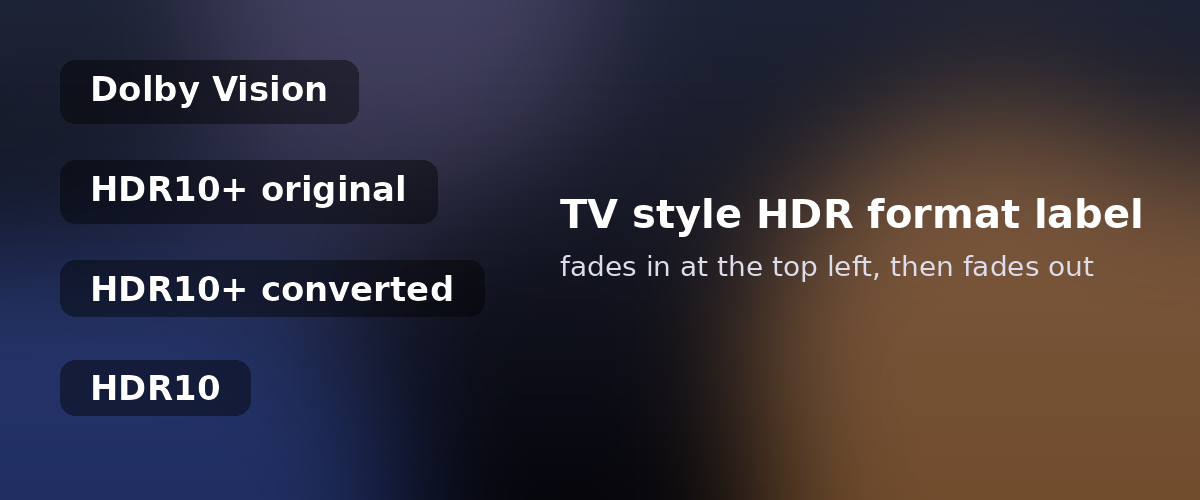
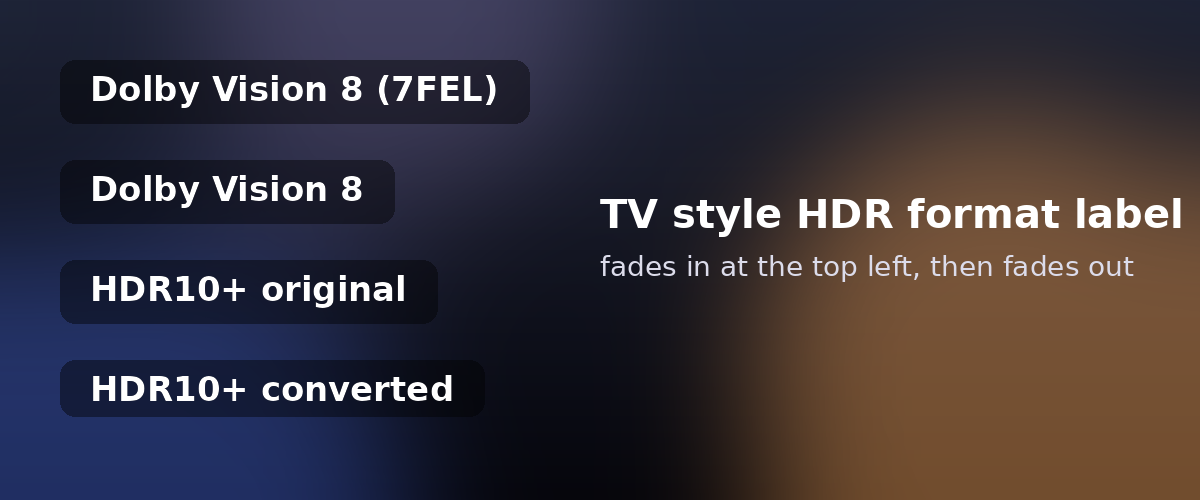
HDR badge: show the Dolby Vision profile, stay longer
- "Dolby Vision 8" (or the native profile, e.g. "Dolby Vision 5") for
  Dolby Vision played as is, "Dolby Vision 8 (7MEL)" / "Dolby Vision 8
  (7FEL)" for profile 7 converted to 8.1.
- The badge stays visible about 5 seconds before fading out (was 2.5).
- README, website text and label illustration updated.

Claude-Session: https://claude.ai/code/session_01HcRXfN5pcUoVJiSHQLWXUD

diff --git a/docs/index.html b/docs/index.html
@@ -83,14 +83,14 @@
     <div class="card"><h3>Profile 7 → 8.1 on the fly</h3><p>The enhancement layer is dropped and every Dolby Vision RPU is rewritten as profile 8.1, like dovi_tool does – during playback, with negligible CPU usage. MEL is lossless.</p></div>
     <div class="card"><h3>4K Dolby Vision that actually engages</h3><p>Many devices under-report their Dolby Vision decoder (e.g. “FHD 30”) and recent players fall back to HDR10 for 4K. DV Player keeps the Dolby Vision decoder.</p></div>
     <div class="card"><h3>Dolby Vision → HDR10+ (experimental)</h3><p>On devices without Dolby Vision but with HDR10+ (Samsung, Google Pixel), Dolby Vision metadata becomes HDR10+ dynamic metadata, scene by scene. Hybrid files keep their original HDR10+.</p></div>
-    <div class="card"><h3>TV style HDR label</h3><p>When a video starts, a translucent label shows what is really playing: Dolby Vision, HDR10+ original, HDR10+ converted, HDR10 or HLG.</p></div>
+    <div class="card"><h3>TV style HDR label</h3><p>When a video starts, a translucent label shows what is really playing: Dolby Vision 8, Dolby Vision 8 (7MEL) or (7FEL) for converted profile 7, HDR10+ original, HDR10+ converted, HDR10 or HLG.</p></div>
     <div class="card"><h3>Works with your media server</h3><p>Use it as the external player of Emby, Jellyfin, Plex or Stremio (Direct Play), or open local MKV/MP4 files.</p></div>
     <div class="card"><h3>Built-in diagnostics</h3><p>Pause a Dolby Vision video to see the decoder in use, the real playback mode and the conversion counters.</p></div>
   </div>
 </section>
 
 <section>
-  <img class="wide" src="assets/labels.png" alt="TV style HDR format labels: Dolby Vision, HDR10+ original, HDR10+ converted, HDR10" width="1200" height="500" loading="lazy">
+  <img class="wide" src="assets/labels.png" alt="TV style HDR format labels: Dolby Vision 8 (7FEL), Dolby Vision 8, HDR10+ original, HDR10+ converted" width="1200" height="500" loading="lazy">
 </section>
 
 <section>
@@ -123,7 +123,7 @@
     <li><strong>Profilo 7 → 8.1 in tempo reale</strong>: scarta lo strato di miglioramento e riscrive i metadati Dolby Vision, come dovi_tool. Il MEL è senza perdite.</li>
     <li><strong>Dolby Vision 4K sbloccato</strong> sui dispositivi che dichiarano capacità inferiori a quelle reali.</li>
     <li><strong>Dolby Vision → HDR10+ (sperimentale)</strong> per i dispositivi senza Dolby Vision, come Samsung e Google Pixel. I file ibridi mantengono il loro HDR10+ originale.</li>
-    <li><strong>Etichetta in stile TV</strong> all'avvio del video: Dolby Vision, HDR10+ original, HDR10+ converted, HDR10 o HLG.</li>
+    <li><strong>Etichetta in stile TV</strong> all'avvio del video: Dolby Vision 8, Dolby Vision 8 (7MEL) o (7FEL) per il profilo 7 convertito, HDR10+ original, HDR10+ converted, HDR10 o HLG.</li>
     <li><strong>Lettore esterno</strong> per Emby, Jellyfin, Plex e Stremio (Direct Play).</li>
   </ul>
   <p><strong>Installazione:</strong> dal dispositivo Android apri l'<a href="https://github.com/imperatore31/JustPlayerDV/releases/latest">ultima versione</a>, scarica il file <code>DVPlayer-….apk</code> e aprilo. Le impostazioni si aprono tenendo premuta l'icona dell'ingranaggio ⚙ durante un video.</p>

diff --git a/app/src/main/java/com/brouken/player/PlayerActivity.java b/app/src/main/java/com/brouken/player/PlayerActivity.java
@@ -1527,7 +1527,14 @@ public class PlayerActivity extends Activity {
     @Nullable
     private String hdrFormatLabel(Format format) {
         if (MimeTypes.VIDEO_DOLBY_VISION.equals(DoviRenderersFactory.getLastVideoCodecMimeType())) {
-            return "Dolby Vision";
+            if (DoviConvertingExtractorsFactory.isConvertedFormat(format)) {
+                // Profile 7 converted to 8.1: "Dolby Vision 8 (7MEL)" / "Dolby Vision 8 (7FEL)"
+                final DoviSampleConverter converter = DoviConvertingExtractorsFactory.getLastActiveConverter();
+                final DoviRpu.ElType elType = converter != null ? converter.getLastElType() : DoviRpu.ElType.NONE;
+                return "Dolby Vision 8 (7" + (elType != DoviRpu.ElType.NONE ? elType.name() : "") + ")";
+            }
+            final int profile = dolbyVisionProfile(format.codecs);
+            return profile > 0 ? "Dolby Vision " + profile : "Dolby Vision";
         }
         final boolean hevc = MimeTypes.VIDEO_H265.equals(format.sampleMimeType)
                 || MimeTypes.VIDEO_DOLBY_VISION.equals(format.sampleMimeType);
@@ -1556,6 +1563,22 @@ public class PlayerActivity extends Activity {
             return "HDR10";
         }
         return null;
+    }
+
+    /** Dolby Vision profile from a codecs string such as "dvhe.08.06" or "dav1.10.09", or 0. */
+    private static int dolbyVisionProfile(@Nullable String codecs) {
+        if (codecs == null) {
+            return 0;
+        }
+        final String[] parts = codecs.split("\\.");
+        if (parts.length < 2) {
+            return 0;
+        }
+        try {
+            return Integer.parseInt(parts[1]);
+        } catch (NumberFormatException e) {
+            return 0;
+        }
     }
 
     /** Shows the HDR format in the top left corner for a few seconds, like a TV does. */
@@ -1605,7 +1628,7 @@ public class PlayerActivity extends Activity {
         badge.setAlpha(0f);
         badge.setVisibility(View.VISIBLE);
         badge.animate().setStartDelay(0).alpha(1f).setDuration(300).withEndAction(() ->
-                badge.animate().setStartDelay(2500).alpha(0f).setDuration(900)
+                badge.animate().setStartDelay(5000).alpha(0f).setDuration(1200)
                         .withEndAction(() -> badge.setVisibility(View.GONE)).start()).start();
     }
 

diff --git a/README.md b/README.md
@@ -46,7 +46,7 @@ DV Player si installa accanto a Just Player, senza sostituirlo.
 Avvia un video, tocca lo schermo e **tieni premuta** l'icona dell'ingranaggio ⚙ in basso a destra. In fondo all'elenco:
 - **Converti Dolby Vision profilo 7 in 8.1**: attiva di default sui dispositivi che supportano il profilo 8 ma non il 7. Sotto è indicato cosa supporta il dispositivo.
 - **Converti Dolby Vision in HDR10+ (sperimentale)**: attiva di default sui dispositivi con HDR10+ ma senza Dolby Vision; ha la precedenza sulla conversione nel profilo 8.1.
-- **Mostra il formato HDR (stile TV)**: all'avvio di un video mostra per qualche secondo, in alto a sinistra, un'etichetta semitrasparente con il formato in uso: *Dolby Vision*, *HDR10+ original* (metadati HDR10+ del file), *HDR10+ converted* (ricavati dal Dolby Vision), *HDR10* o *HLG*.
+- **Mostra il formato HDR (stile TV)**: all'avvio di un video mostra per qualche secondo, in alto a sinistra, un'etichetta semitrasparente con il formato in uso: *Dolby Vision 8* (o il profilo nativo), *Dolby Vision 8 (7MEL)* / *Dolby Vision 8 (7FEL)* (profilo 7 convertito), *HDR10+ original* (metadati HDR10+ del file), *HDR10+ converted* (ricavati dal Dolby Vision), *HDR10* o *HLG*.
 - **Diagnostica Dolby Vision**: se attiva, alla prima pausa di un video Dolby Vision mostra il decoder usato, la modalità (Dolby Vision, HDR10+ o HDR10) e quanti metadati sono stati convertiti.
 
 ### Limiti
@@ -94,7 +94,7 @@ DV Player installs next to Just Player, it does not replace it.
 Start a video, tap the screen and **long press** the ⚙ gear icon at the bottom right. At the end of the list:
 - **Convert Dolby Vision profile 7 to 8.1**: enabled by default on devices that support profile 8 but not profile 7. The device capabilities are shown below it.
 - **Convert Dolby Vision to HDR10+ (experimental)**: enabled by default on devices with HDR10+ but without Dolby Vision; takes precedence over the profile 8.1 conversion.
-- **Show the HDR format (TV style)**: when a video starts, a semi-transparent label in the top left corner shows the format in use for a few seconds: *Dolby Vision*, *HDR10+ original* (the file's own HDR10+ metadata), *HDR10+ converted* (derived from Dolby Vision), *HDR10* or *HLG*.
+- **Show the HDR format (TV style)**: when a video starts, a semi-transparent label in the top left corner shows the format in use for a few seconds: *Dolby Vision 8* (or the native profile), *Dolby Vision 8 (7MEL)* / *Dolby Vision 8 (7FEL)* (converted profile 7), *HDR10+ original* (the file's own HDR10+ metadata), *HDR10+ converted* (derived from Dolby Vision), *HDR10* or *HLG*.
 - **Dolby Vision diagnostics**: when enabled, the first pause of a Dolby Vision video shows the decoder in use, the mode (Dolby Vision, HDR10+ or HDR10) and how many RPUs were converted.
 
 ### Limitations
